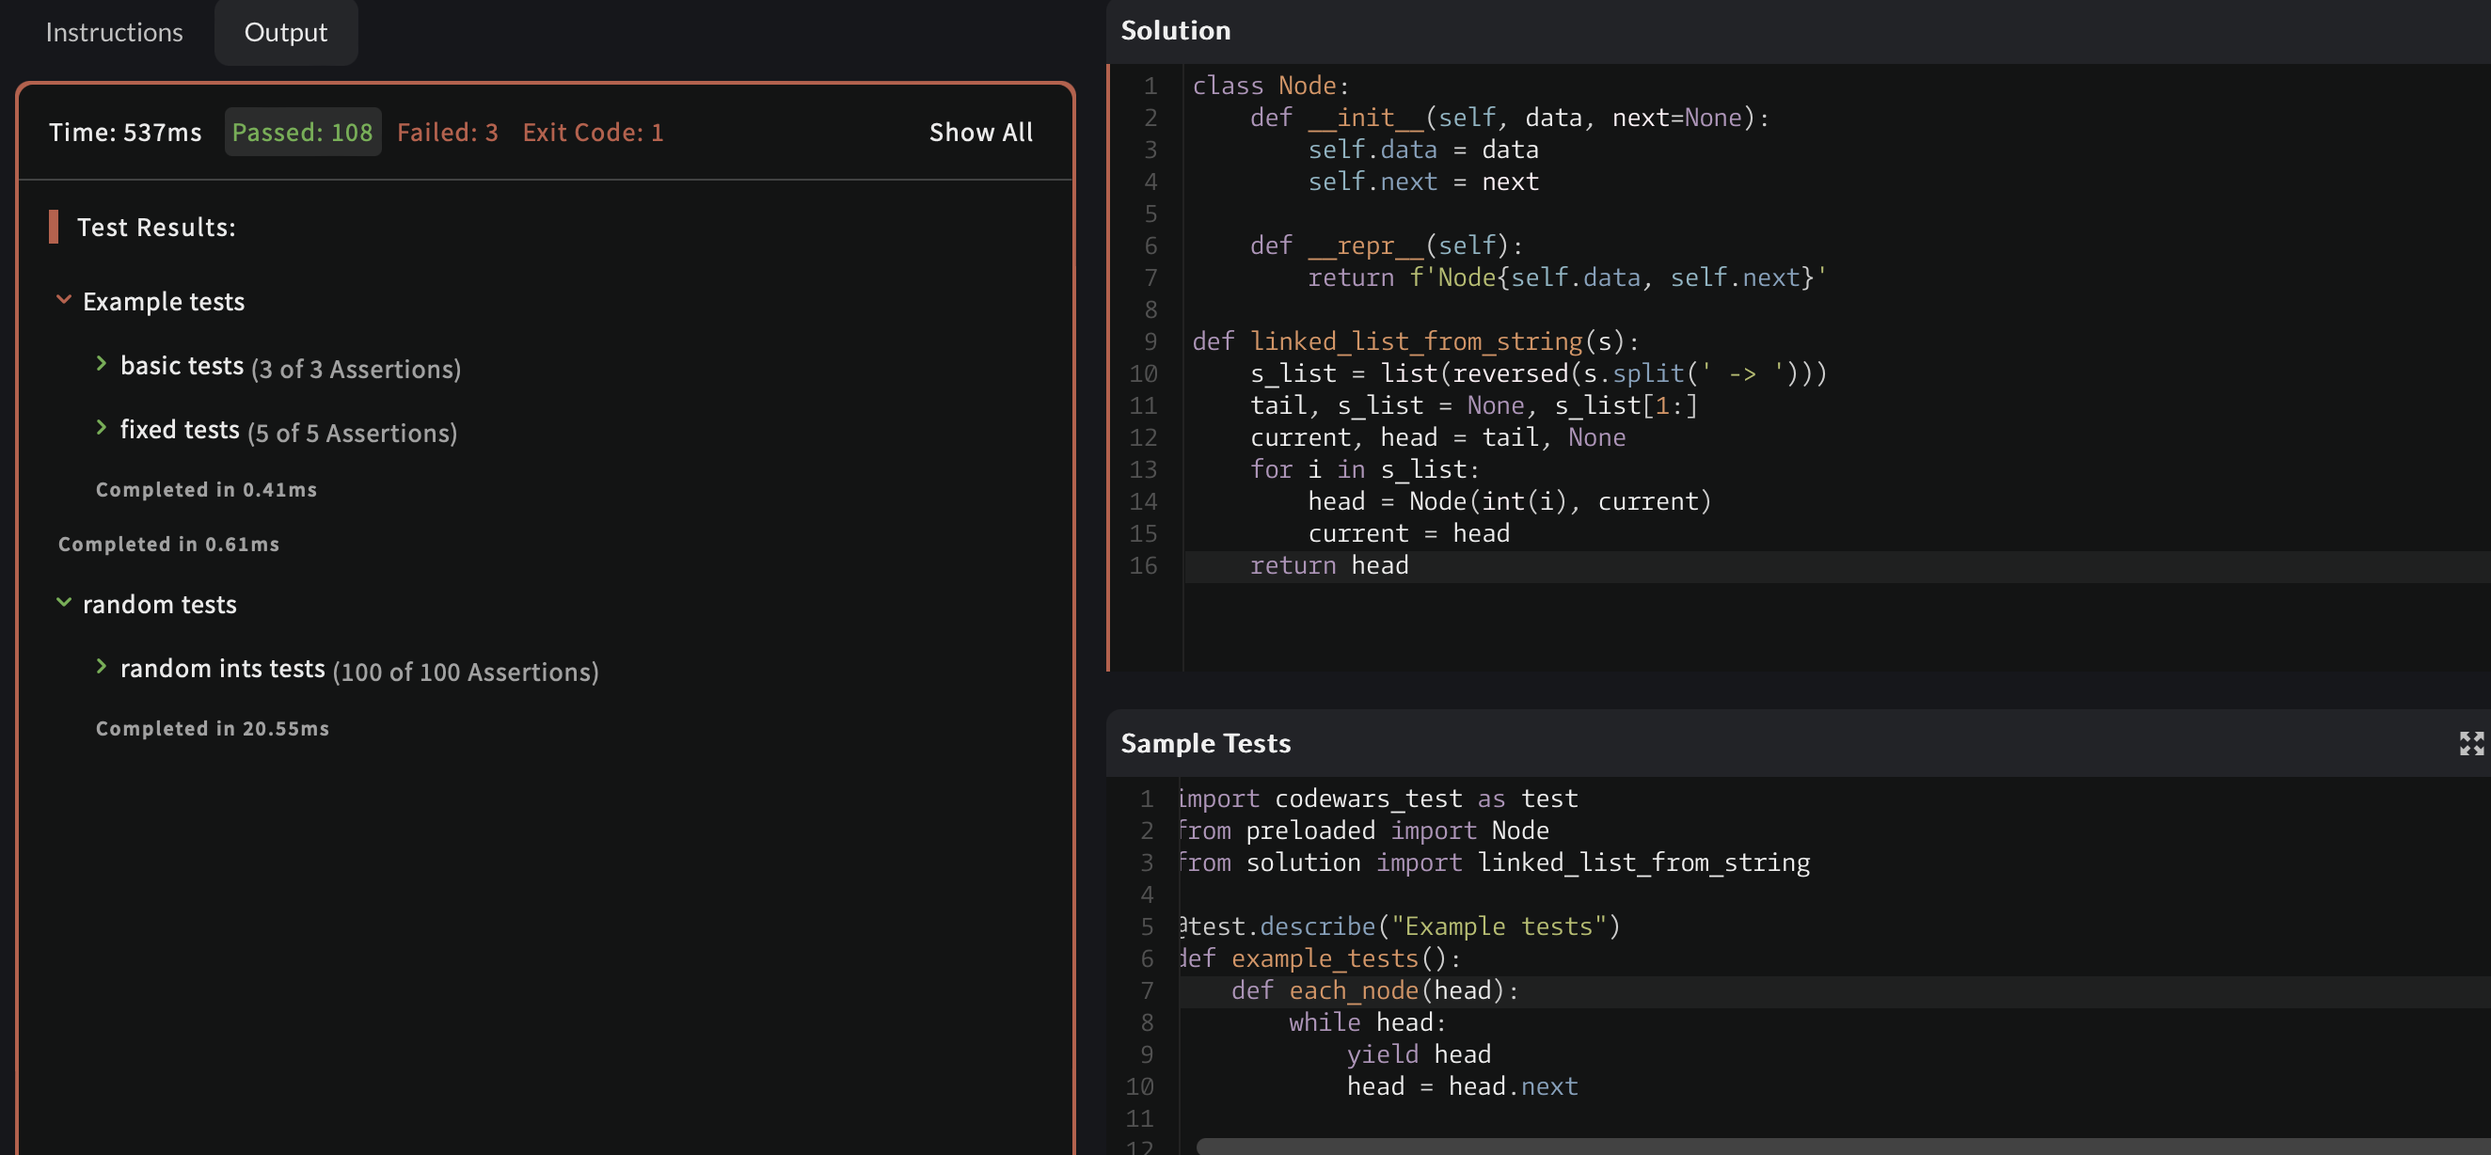
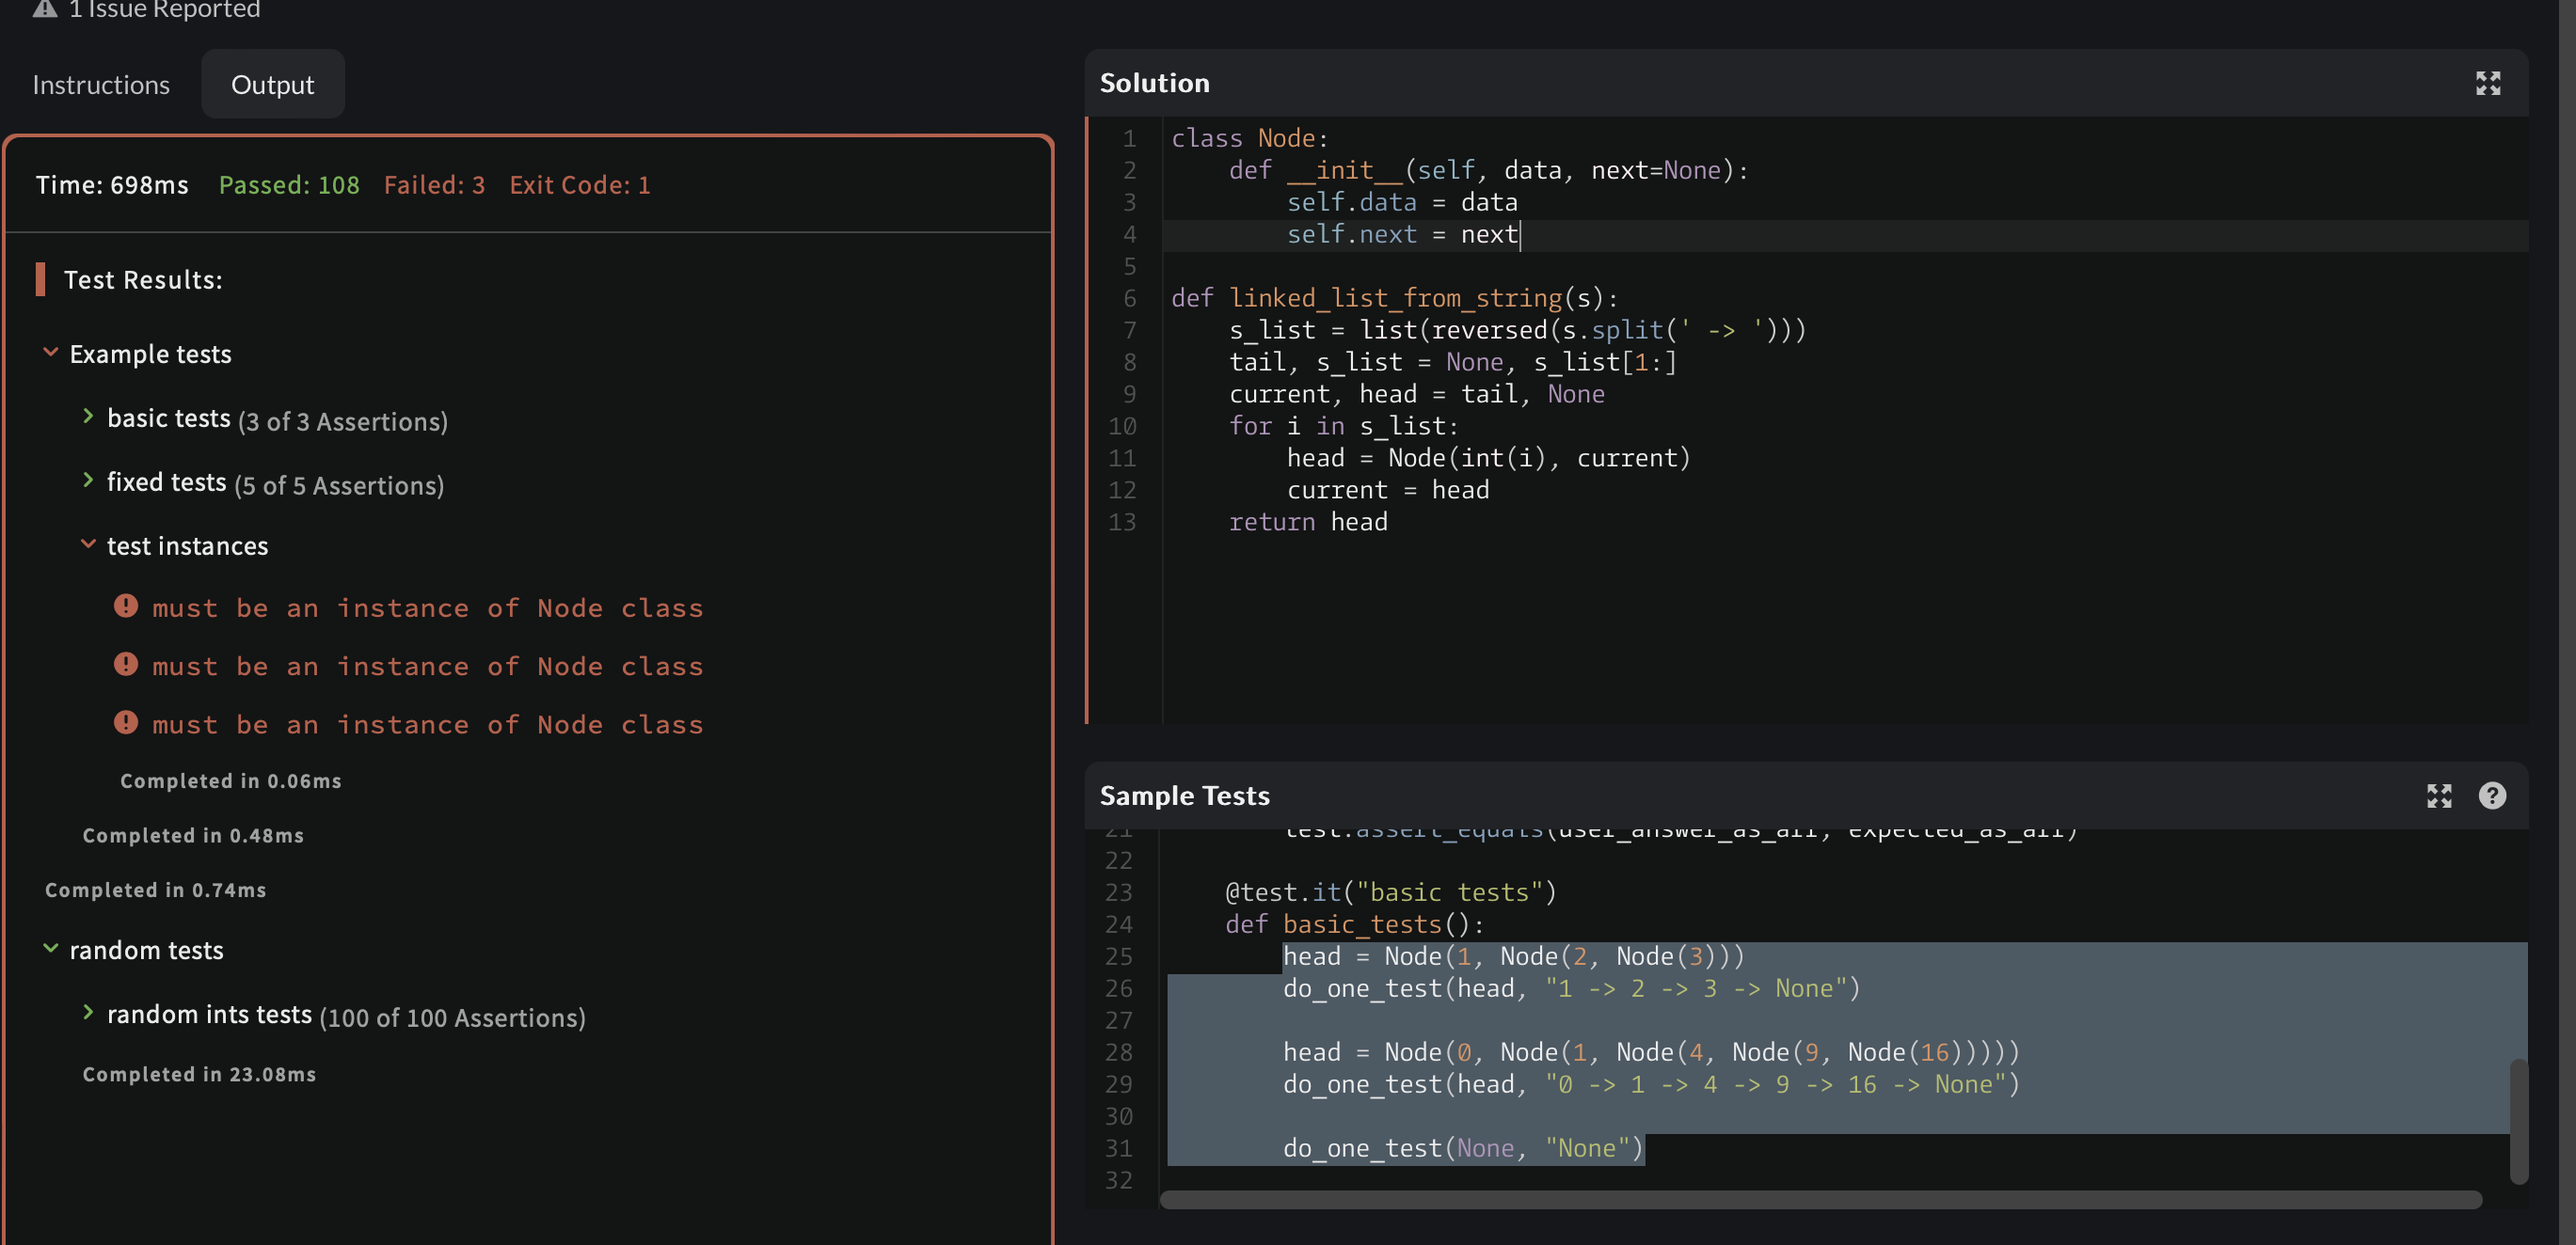
removed repr

diff --git a/Parse a linked list from a string/Parse.py b/Parse a linked list from a string/Parse.py
@@ -2,9 +2,6 @@ class Node:
     def __init__(self, data, next=None): 
         self.data = data
         self.next = next
-    
-    def __repr__(self):
-        return f'Node{self.data, self.next}'
 
 def linked_list_from_string(s):
     s_list = list(reversed(s.split(' -> ')))
